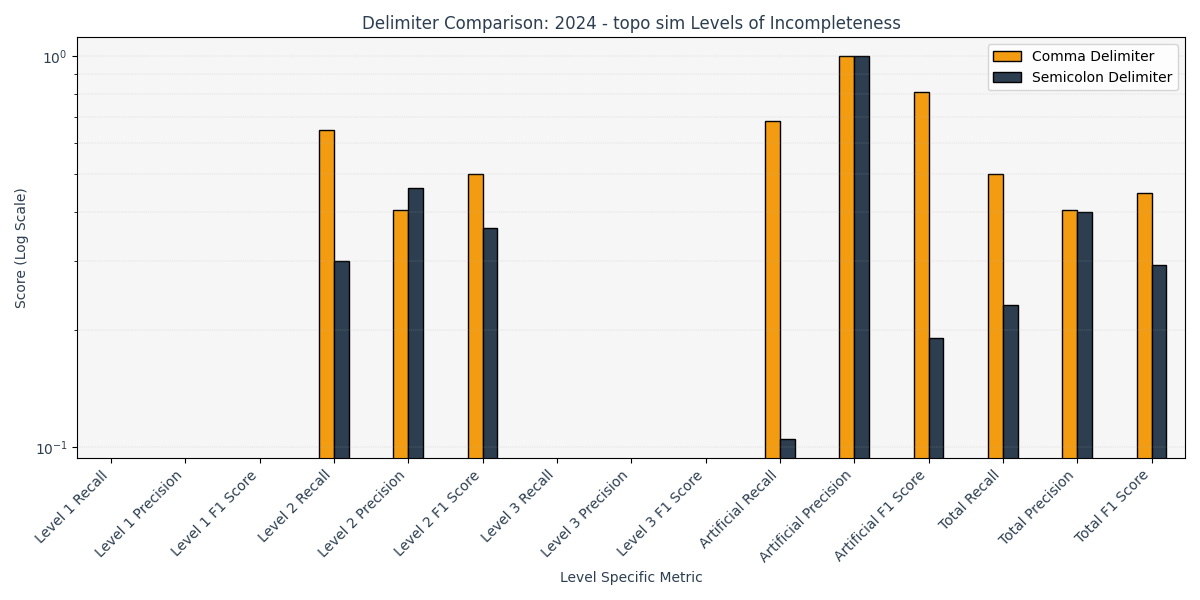
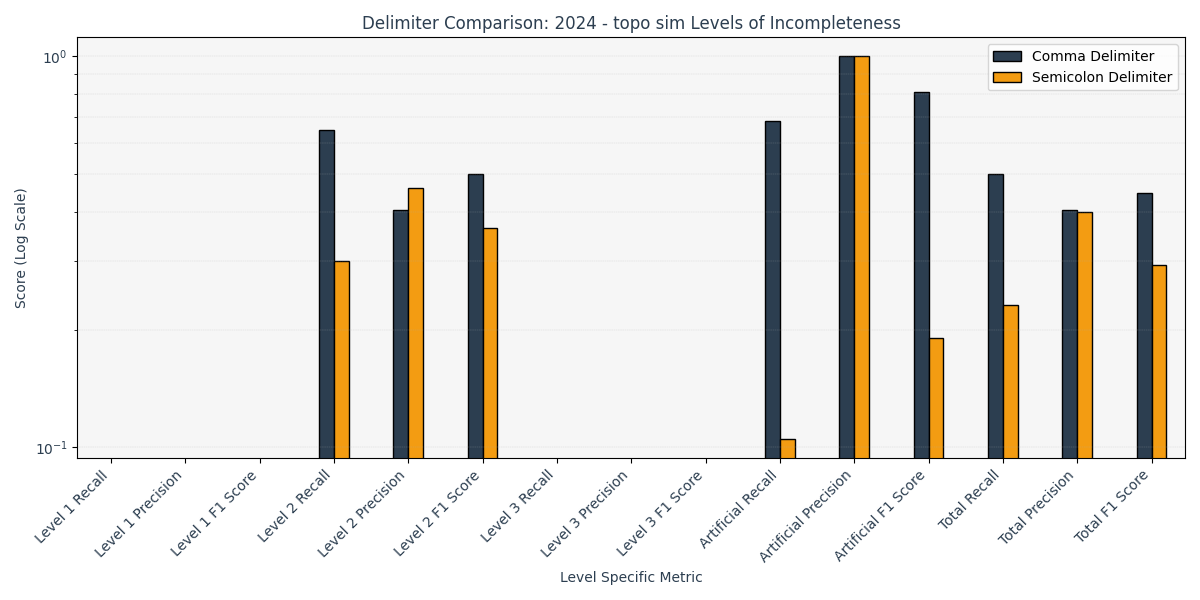
Colors updated to be consistent

Changed region(s): [[0.6167, 0.09, 0.9867, 0.78], [0.2467, 0.21, 0.4317, 0.78], [0.8325, 0.09, 0.8633, 0.15]]

diff --git a/src/result_processing/plotting/scenarios.py b/src/result_processing/plotting/scenarios.py
@@ -96,5 +96,5 @@ def plot_delimiter_difference_document_wise(df_comma, df_semi) -> None:
             'Level Specific Metric',
             'Score (Log Scale)',
             yscale='log',
-            colors=[color_palette['orange'], color_palette['dark_blue']]
+            colors=[color_palette['dark_blue'], color_palette['orange']]
         )
